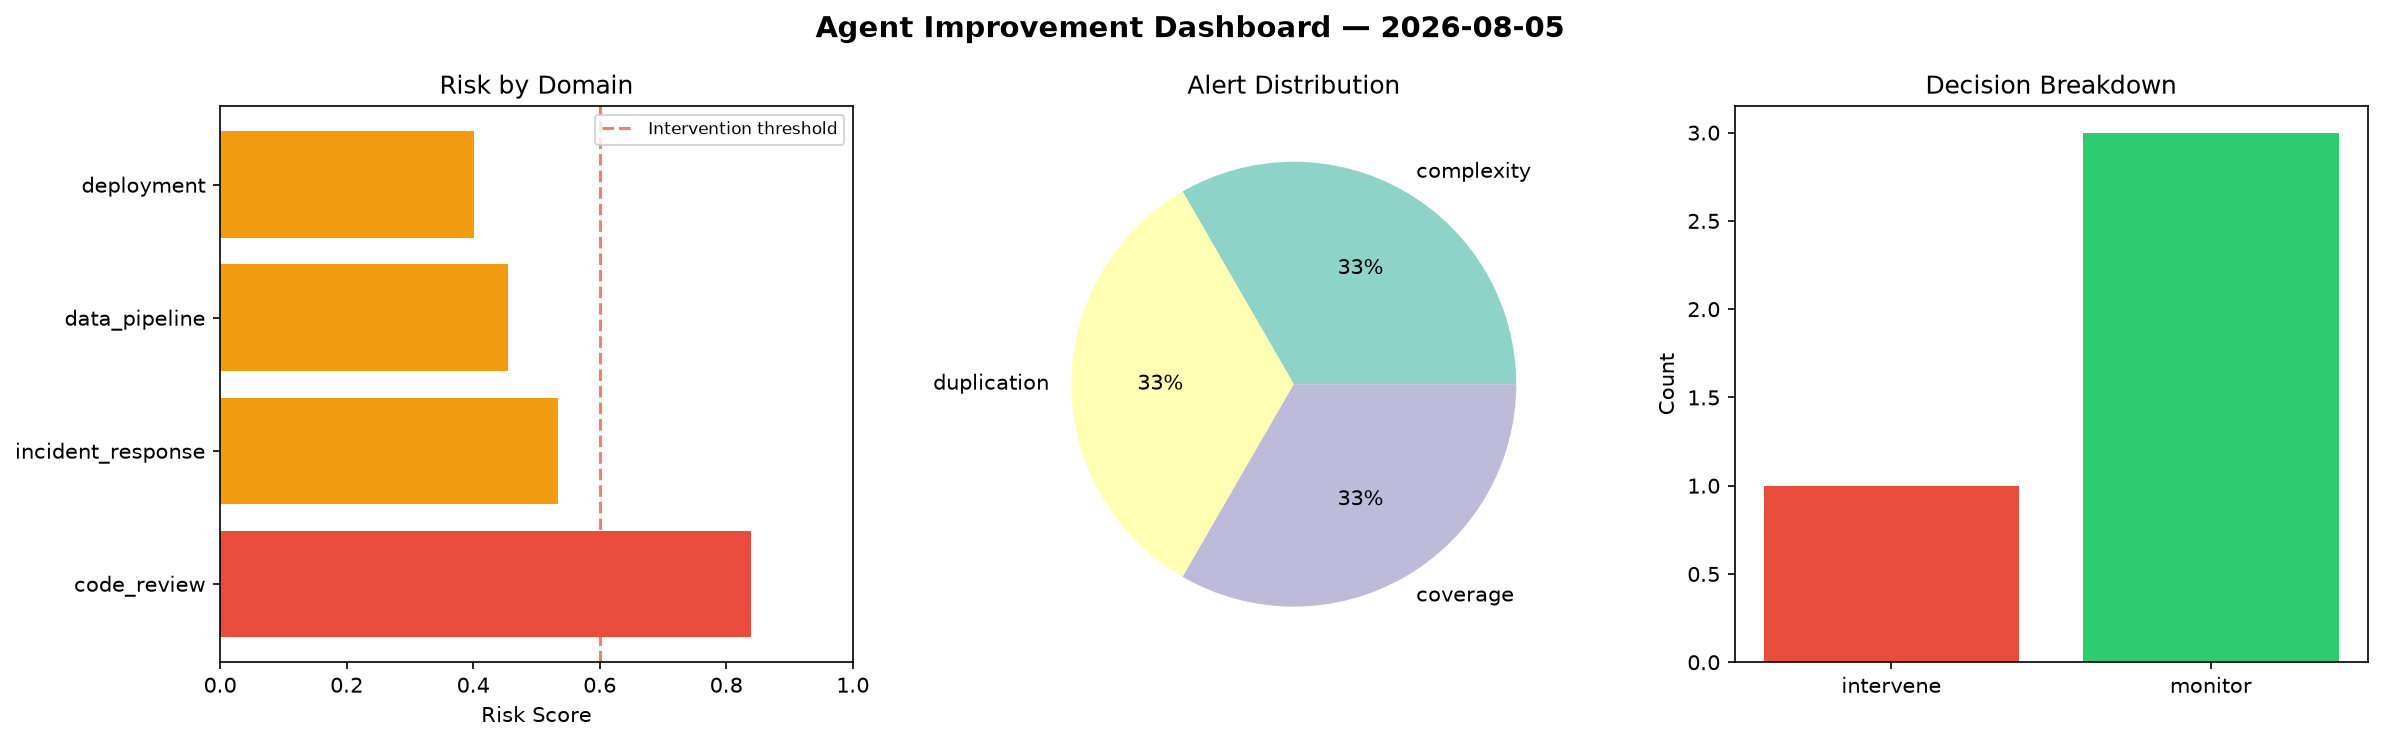
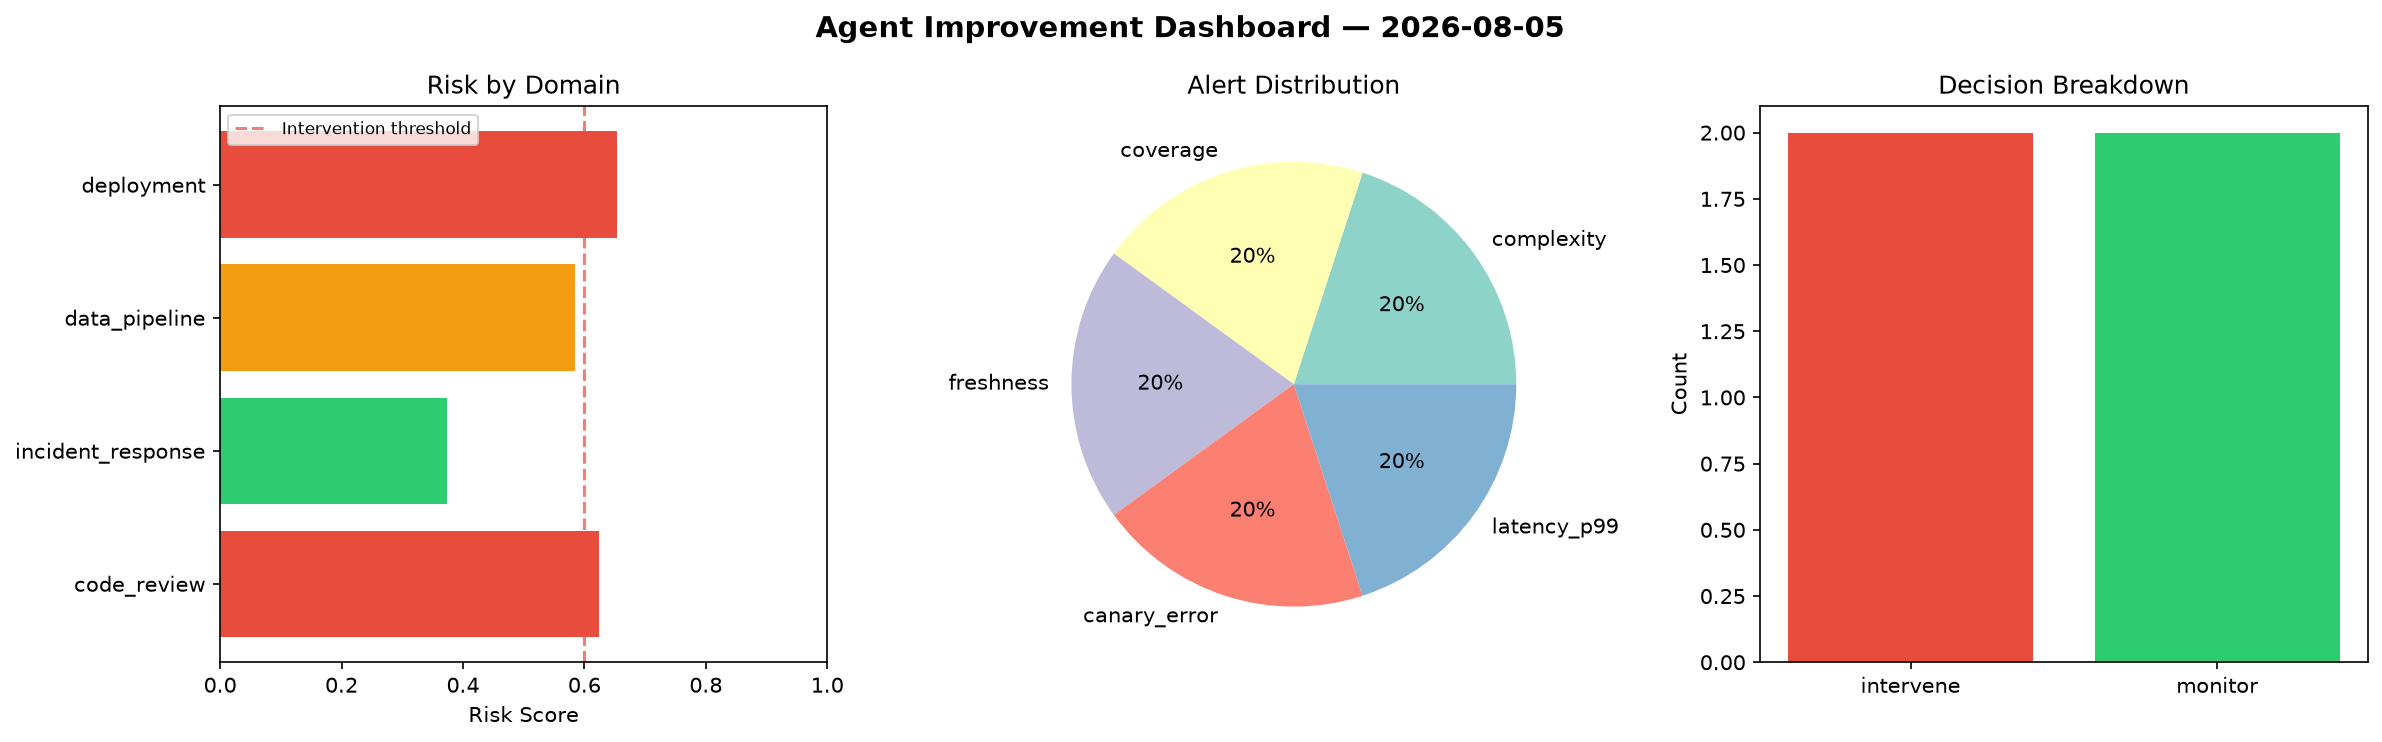
agent-improvement: daily cycle 2026-08-05T10:45

diff --git a/logs/2026-08-05.md b/logs/2026-08-05.md
@@ -1,6 +1,6 @@
 # Agent Improvement Report — 2026-08-05
 
-**Cycle ID:** `dbb521ef` | **Avg Risk:** 0.5576 | **Interventions:** 1/4
+**Cycle ID:** `909f1fc4` | **Avg Risk:** 0.5584 | **Interventions:** 2/4
 
 ![Dashboard](2026-08-05_dashboard.png)
 
@@ -10,18 +10,18 @@
 
 | Domain | Risk Score | Decision | Alerts |
 |--------|-----------|----------|--------|
-| code_review | 0.8396 | intervene | complexity, duplication, coverage |
-| incident_response | 0.5348 | monitor | none |
-| data_pipeline | 0.455 | monitor | none |
-| deployment | 0.401 | monitor | none |
+| code_review | 0.6235 | intervene | complexity, coverage |
+| incident_response | 0.3734 | monitor | none |
+| data_pipeline | 0.5837 | monitor | freshness |
+| deployment | 0.6529 | intervene | canary_error, latency_p99 |
 
 ## Delta vs Yesterday
 
 | Domain | Today | Yesterday | Change |
 |--------|-------|-----------|--------|
-| code_review | 0.8396 | 0.7073 | 📈 18.7% |
-| incident_response | 0.5348 | 0.4494 | 📈 19.0% |
-| data_pipeline | 0.455 | 0.2941 | 📈 54.7% |
-| deployment | 0.401 | 0.4453 | 📉 -9.9% |
+| code_review | 0.6235 | 0.7073 | 📉 -11.8% |
+| incident_response | 0.3734 | 0.4494 | 📉 -16.9% |
+| data_pipeline | 0.5837 | 0.2941 | 📈 98.5% |
+| deployment | 0.6529 | 0.4453 | 📈 46.6% |
 
-**Refinement:** `{'adjustment': 'maintain', 'trend': 'improving', 'window': 4}`
+**Refinement:** `{'adjustment': 'tighten_thresholds', 'trend': 'degrading', 'window': 4}`
